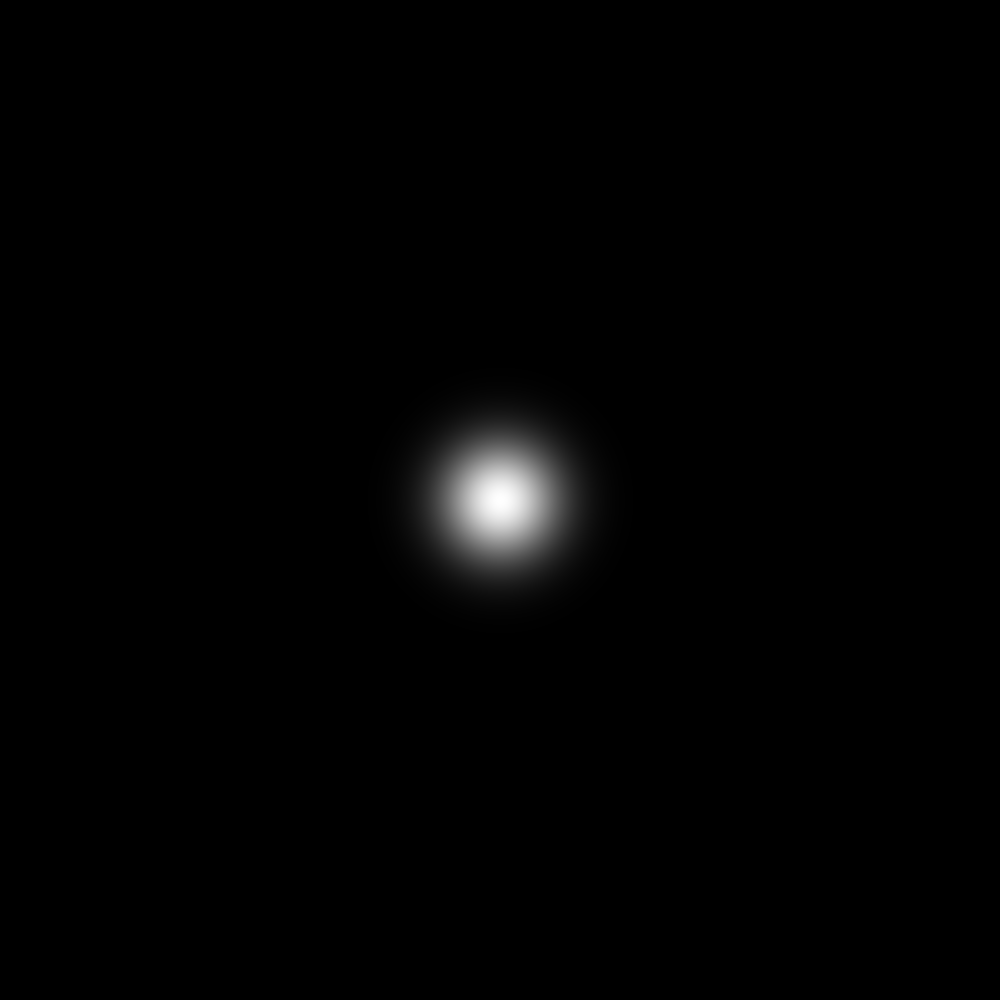
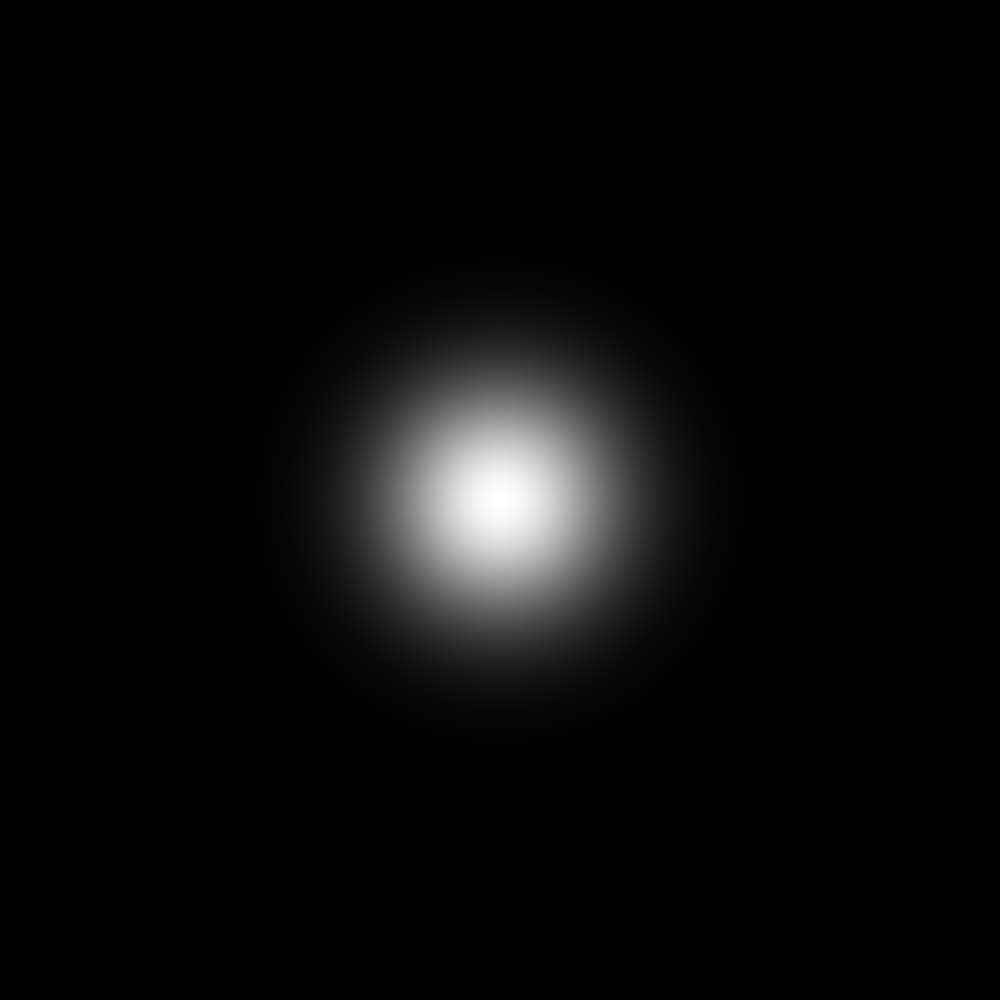
commit

Changed region(s): [[0.31, 0.31, 0.682, 0.682]]

diff --git a/src/main.rs b/src/main.rs
@@ -77,7 +77,8 @@ impl StateVec{
         return Self{location, velocity, density_func:base_distrib_func};
     }
     pub fn sample_density(&self,point:Vector2)->f64{
-        return ((self.density_func))(point-self.location);
+        let p = point-self.location;
+        return ((self.density_func))(p);
     }
     pub fn get_density_func(&self)-> impl Fn (Vector2)->f64{
         let density_func = self.density_func;
@@ -109,19 +110,12 @@ pub fn area_integration(rect:AxisAlignedRect,resolution:f64,function:&impl Fn(Ve
     }
     return out;
 }
-fn _test_area (point:Vector2)->f64{
-    fn func(base:f64)->f64{
-        let scale:f64 = 1.0;
-        let sx =base*scale;
-        return f64::exp(-PI*sx*sx);
-    }
-    func(point.x)*func(point.y)
-}
+
 pub fn test(height:i32, width:i32){
     let mut out = prelude::Image::gen_image_color(width,height, Color::BLACK);
     let state = StateVec::new(Vector2::zero(), Vector2::zero());
     let tmp = state.get_density_func();
-    let scale = 0.01;
+    let scale = 0.005;
     for y0 in 0..height{
         for x0 in 0..width{
             let x = x0 as f64-width as f64/2.0;
@@ -132,7 +126,7 @@ pub fn test(height:i32, width:i32){
             out.draw_pixel(x0,y0, Color{r:col,g:col, b:col, a:255});
         }
     }
-    let area = area_integration(AxisAlignedRect{x:-500.0*scale, y:-500.0*scale, w:1000.0*scale, h:1000.0*scale},2.0,&tmp);
+    let area = area_integration(AxisAlignedRect{x:-500.0*scale, y:-500.0*scale, w:1000.0*scale, h:1000.0*scale},2.0/scale,&tmp);
     println!("{area}");
     out.export_image("test.png");
 }
